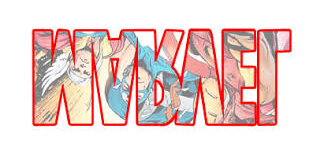
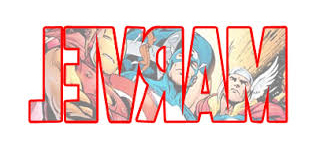
Adicionado posicionamento central para o fundo. Iniciando transicao de imagens para png.

diff --git a/Animation/Animation.java b/Animation/Animation.java
@@ -23,31 +23,25 @@ public class Animation extends TimerTask {
   private int x_0;
   private int y_0;
   private int jump;
-  //The background image
+  private int height;
+  private int shift;
+  private int segment_index;
+  private int repetition_controller;
+
+  private double alpha;
+  private double delta_alpha;
+
   private Point pi;
   private Point pf;
   //lista que conterá o trajeto  
   private ArrayList<Point> point_list;
 
-
   // new try
   private BufferedImage mixedImage;
-
   private BufferedImageDrawer bid;
-
   private TImageManager tImages;
-
   private TriangulatedImage current_image;
 
-
-  private int segment_index;
-  private int shift;
-  private int repetition_controller;
-
-  private int height;
-
-  private double alpha;
-  private double delta_alpha;
 
   /**
   * Constructor
@@ -60,9 +54,7 @@ public Animation(int r, int s, int n, int x, int y, int h, BufferedImageDrawer b
   	this.repetitions   = n;
   	this.x_0           = x;  
   	this.y_0           = y;
-
     this.height        = h;
-
     this.shift         = 0;
     this.segment_index = 0;
     this.alpha         = 0;
@@ -71,25 +63,11 @@ public Animation(int r, int s, int n, int x, int y, int h, BufferedImageDrawer b
 
     this.bid = b;
 
-
-
-
-
     bid.g2dbi.setStroke(new BasicStroke(1.5f));
+    bid.g2dbi.setPaint(Color.black);
     bid.g2dbi.setRenderingHint(RenderingHints.KEY_ANTIALIASING,RenderingHints.VALUE_ANTIALIAS_ON); 
-
-    //Transforma as coordenadas
-
     bid.g2dbi.transform(normalizedCoords(h));
 
-
-
-
-    bid.g2dbi.setPaint(Color.black);
-    
-
-
-    //calcula os pontos
     pi = new Point();
     pf = new Point();
     point_list = calculateBrasenham();    
@@ -108,9 +86,6 @@ public Animation(int r, int s, int n, int x, int y, int h, BufferedImageDrawer b
 @Override
 public void run() {
 
-
-
-
     if (repetitions > 0) {
 
         calculateInterpolationPoints(segment_index, shift);
@@ -122,8 +97,6 @@ public void run() {
               // Esse arredondamento ta dando problema
               int interpolated_x = (int) ((1 - alpha) * pi.get_x() + alpha * pf.get_x());
               int interpolated_y = (int) ((1 - alpha) * pi.get_y() + alpha * pf.get_y());
-
-               //System.out.format("alpha is (%.10f) at seg (%d) | i_x: %d -- i_y: %d \n",alpha , segment_index, interpolated_x, interpolated_y);
 
                mixedImage = current_image.mixWith(tImages.getNext(segment_index), alpha);
                 // background aqui
@@ -153,8 +126,6 @@ public void run() {
     } else {
         this.cancel();
     }
-
-
 
 
 
@@ -257,7 +228,7 @@ public int normalizedSegement(int s) {
 
 }
 
-public AffineTransform normalizedCoords(int height) {
+public static AffineTransform normalizedCoords(int height) {
 
 	AffineTransform normalizer = new AffineTransform();
   	normalizer.setToScale(1, -1);
@@ -297,9 +268,11 @@ public static void main(String[] argv) {
 
     //The background.
 		BufferedImage backGround = new BufferedImage(width,height,BufferedImage.TYPE_INT_RGB);
-		Image theImage = new javax.swing.ImageIcon("fundo.jpg").getImage();
+		Image theImage = new javax.swing.ImageIcon("data/fundo.jpg").getImage();
 
 		Graphics2D g2dBackGround = backGround.createGraphics();
+
+    g2dBackGround.transform(Animation.normalizedCoords(height));
 
     //The lines should have a thickness of 3.0 instead of 1.0.
 		g2dBackGround.setStroke(new BasicStroke(2.0f));
@@ -307,29 +280,14 @@ public static void main(String[] argv) {
     //The background is painted white first.
 		g2dBackGround.setPaint(Color.white);
 		g2dBackGround.fill(new Rectangle(0,0,width,height));
-		g2dBackGround.drawImage(theImage,-10,height - 155,null);	// - 155 ?
+    g2dBackGround.drawImage(theImage, (width/2) - 162 , (height/2) - 72,null);	// - 155 ?
     
     //The window in which everything is drawn.
-		BufferedImage bi = new BufferedImage(width,height,BufferedImage.TYPE_INT_RGB);
-		BufferedImageDrawer bid = new BufferedImageDrawer(bi,width,height);
+		BufferedImageDrawer bid = new BufferedImageDrawer(backGround,width,height);
 
-
-        // bid.g2dbi.setStroke(new BasicStroke(1.5f));
-        // bid.g2dbi.setPaint(Color.black);
-        // bid.g2dbi.setRenderingHint(RenderingHints.KEY_ANTIALIASING,RenderingHints.VALUE_ANTIALIAS_ON); 
-
-        //Transforma as coordenadas
-
-
-
-
-    //The TimerTask in which the repeated computations drawing take place.
-        Animation scene = new Animation(radius, segments, repetitions, x_center, y_center,height, bid);
-        Timer t = new Timer();
-        // tem que normalizar os segmentos
-		t.scheduleAtFixedRate( scene, 0, delay);
-
-        //t.cancel();
+    Animation scene = new Animation(radius, segments, repetitions, x_center, y_center,height, bid);
+    Timer t = new Timer();
+  	t.scheduleAtFixedRate( scene, 0, delay);
 
 
 	}
